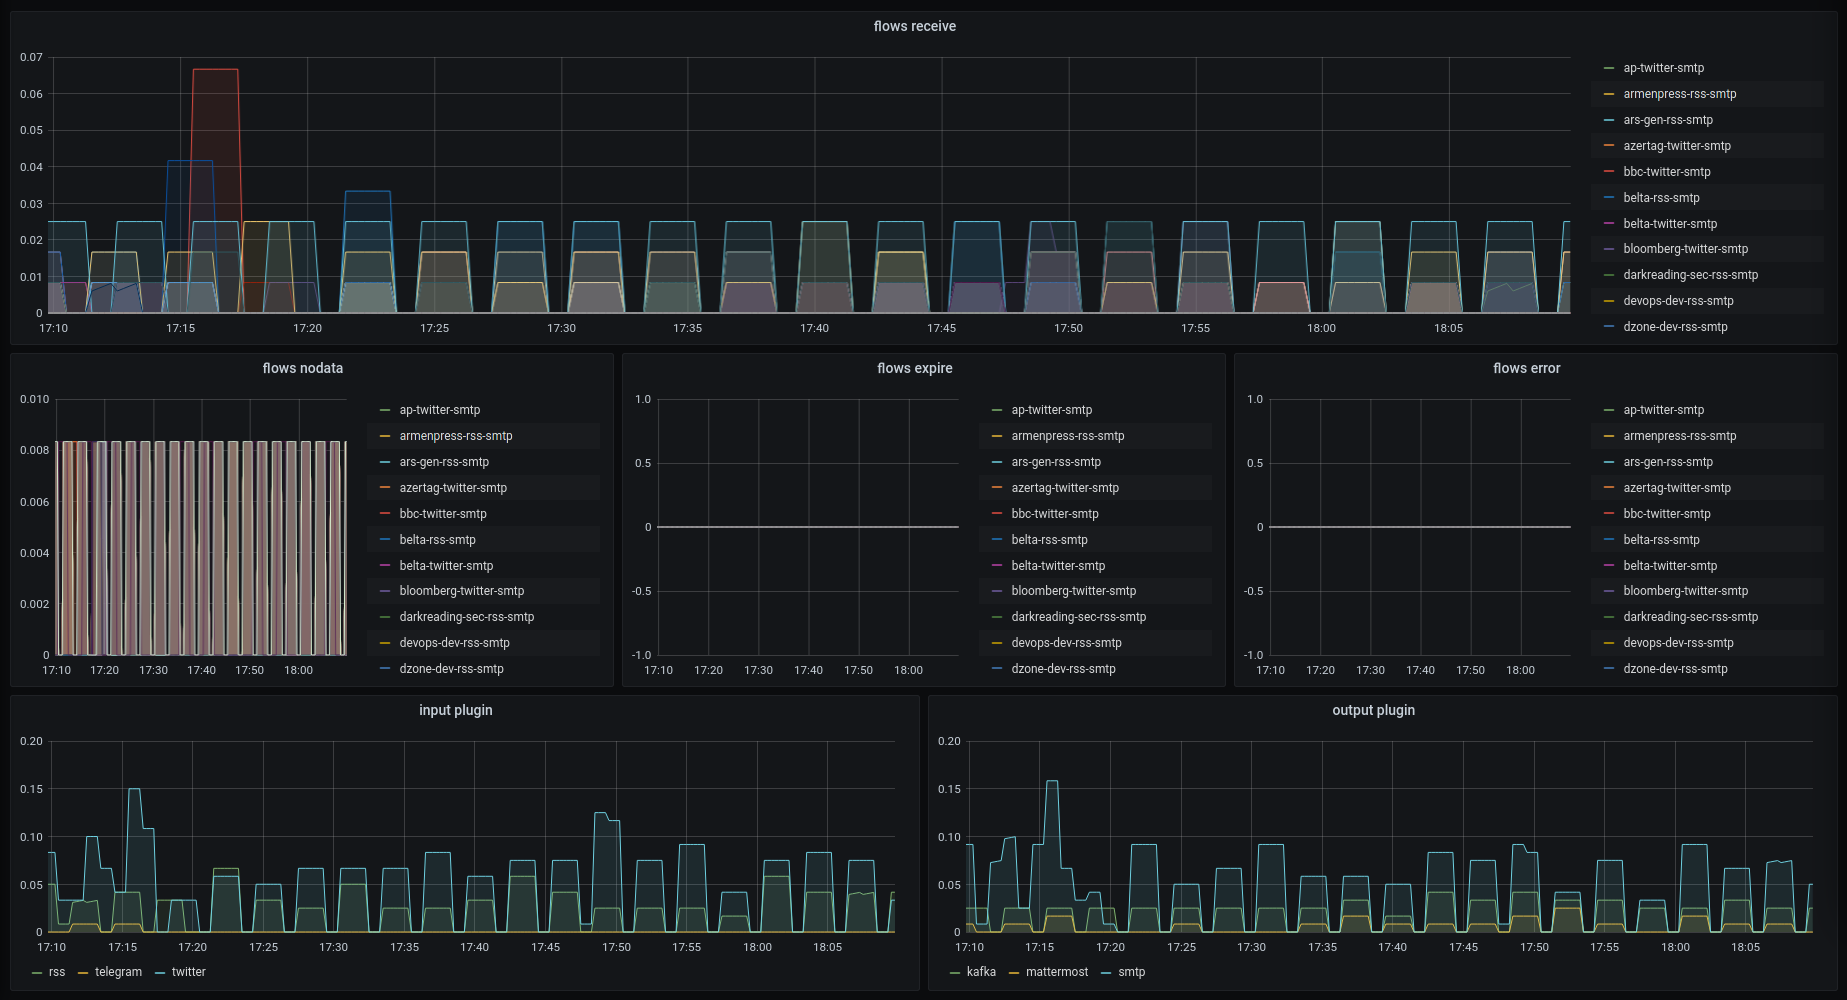
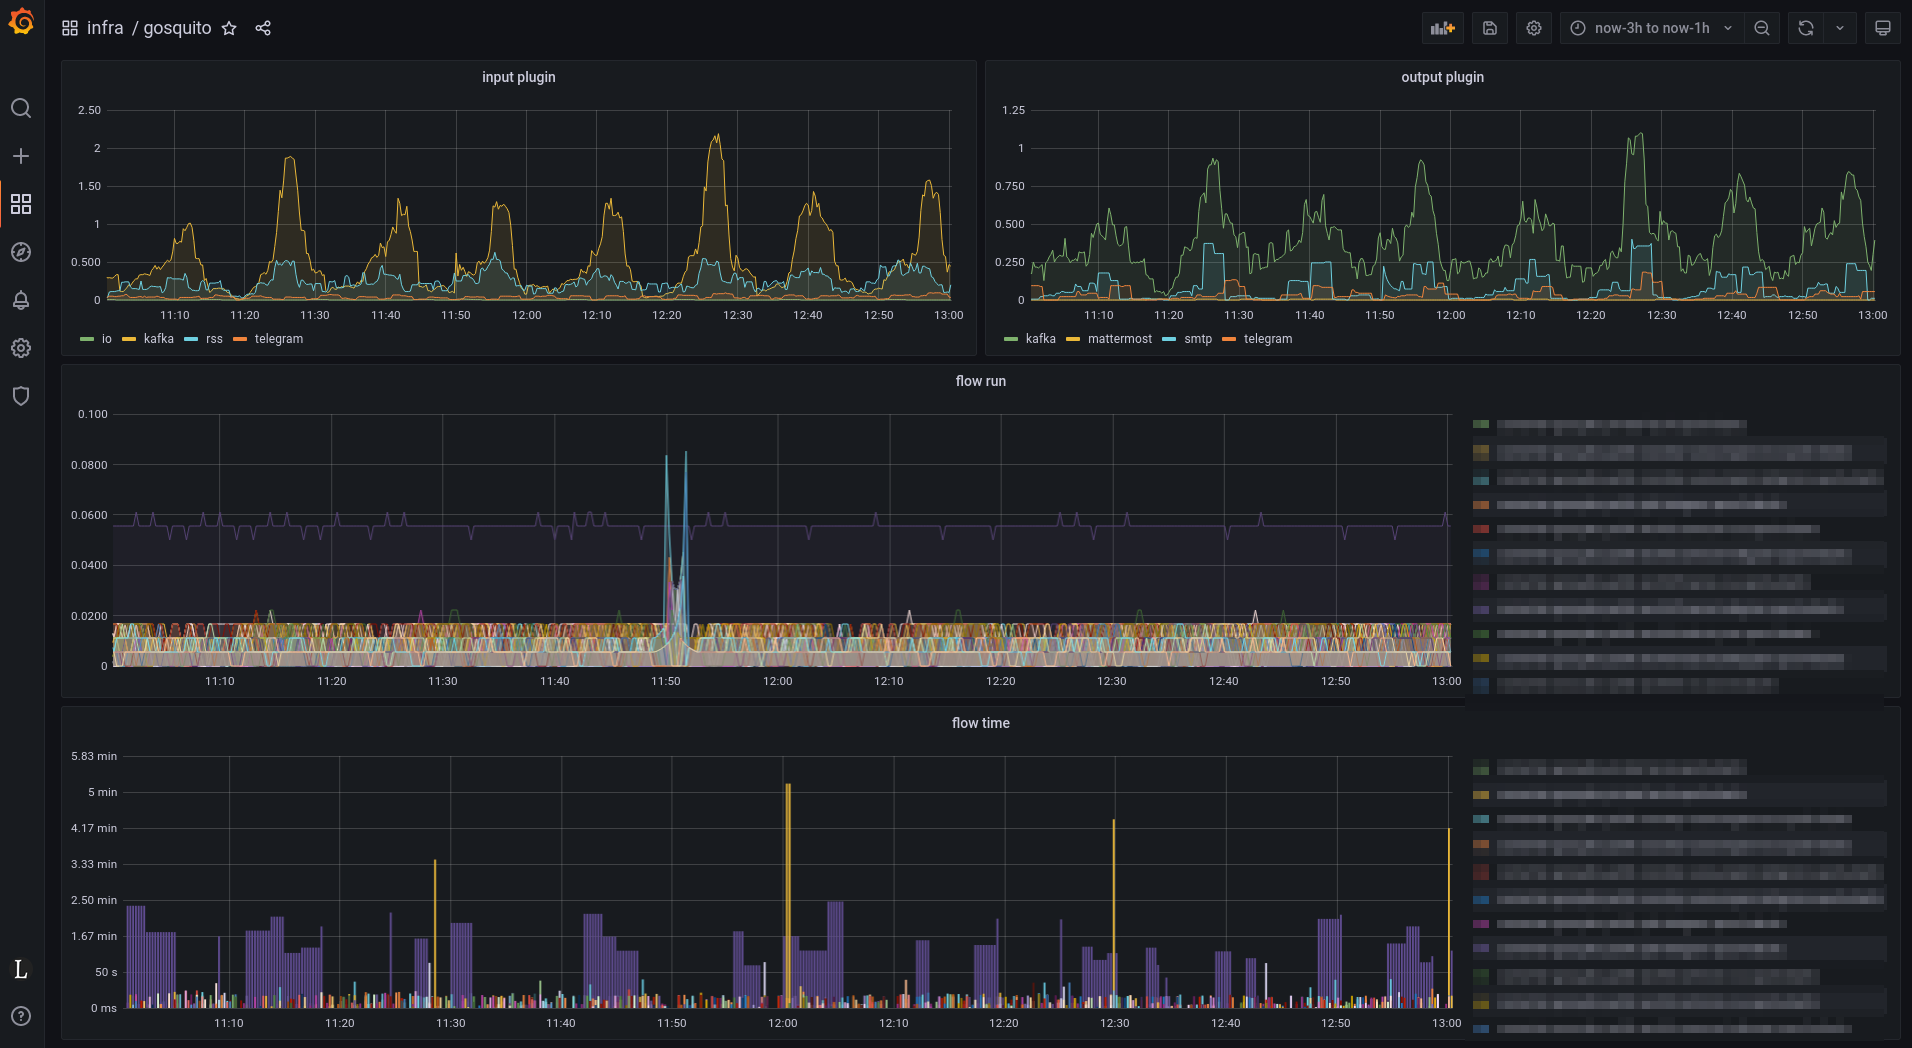
docs

diff --git a/docs/metrics.md b/docs/metrics.md
@@ -1,0 +1,7 @@
+### Metrics:
+
+gosquito always exports [prometheus](https://prometheus.io/) metrics on [http://127.0.0.1:8080/metrics](http://127.0.0.1:8080/metrics):
+
+### Grafana example:
+
+![](../assets/grafana.png)

diff --git a/docs/README.md b/docs/README.md
@@ -7,3 +7,4 @@
 5. [Storage](storage.md)
 6. [Template](template.md)
 7. [Credentials](credentials.md)
+8. [Metrics](metrics.md)
